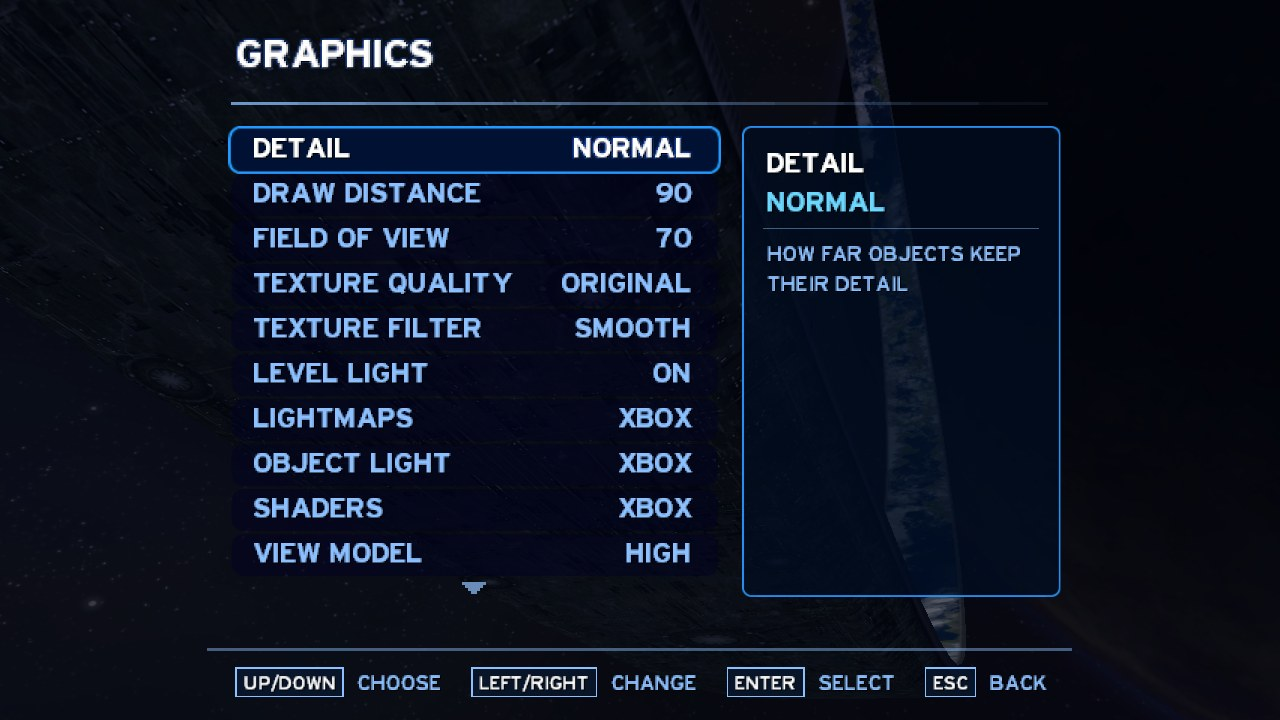
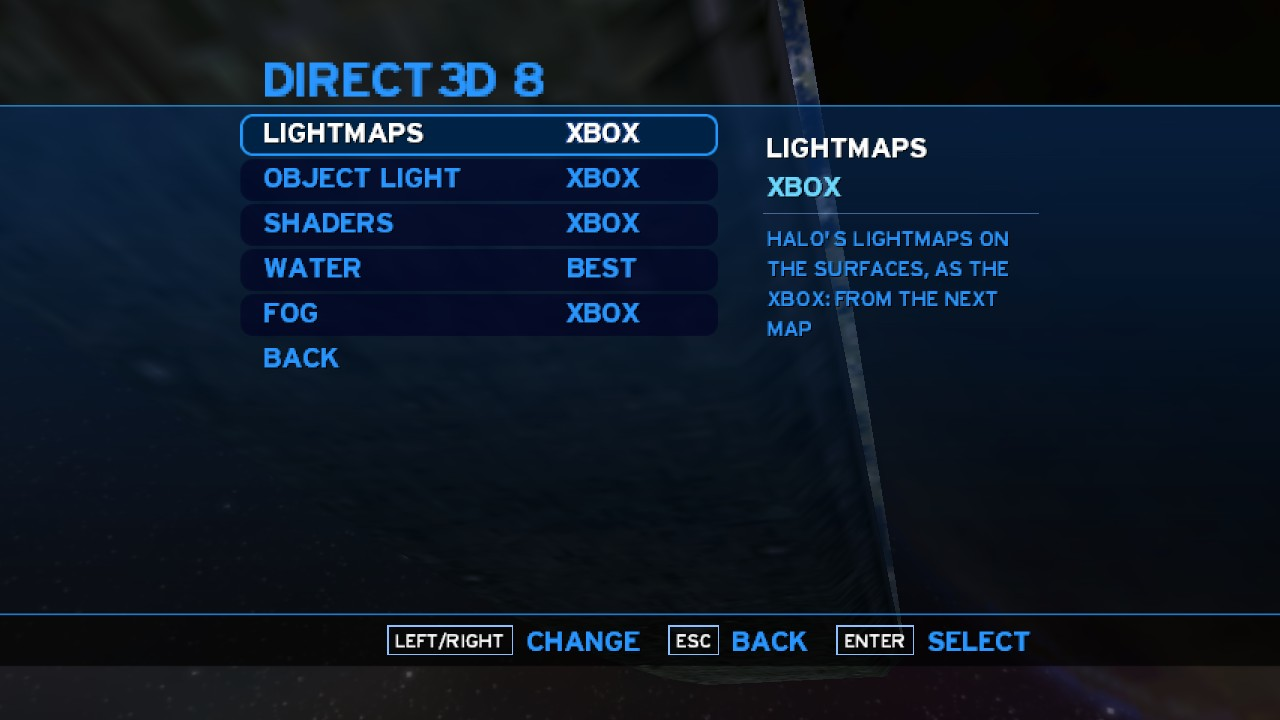
Screenshots: the new menus; 8-bit screen pictures blended
The title (three renderers and 256 colours), the Custom Game page and the
graphics settings (now the DIRECT3D 8 page) retaken with the Xbox-style
menus.

In 256 colours an alpha-blended screen picture was drawn only where it
was over half opaque, so the title's dim items (MULTIPLAYER, SETTINGS)
were not drawn at all; it now blends in three steps, as the 8-bit
models do: nothing under a quarter, half to three quarters, whole above.

diff --git a/docs/index.html b/docs/index.html
@@ -276,7 +276,7 @@ footer p { margin: 6px 0; }
 		<figure><img loading="lazy" src="screenshots/split-screen-direct3d.jpg" alt="Four-player split screen on Blood Gulch"><figcaption>Four-player split screen, Direct3D 8</figcaption></figure>
 		<figure><img loading="lazy" src="screenshots/ce-map-download.jpg" alt="The joining page downloading a Custom Edition map"><figcaption>Joining a Custom Edition server downloads its map</figcaption></figure>
 		<figure><img loading="lazy" src="screenshots/menu-custom-game.jpg" alt="The Custom Game page"><figcaption>Custom games with bots</figcaption></figure>
-		<figure><img loading="lazy" src="screenshots/menu-graphics.jpg" alt="The Graphics settings page"><figcaption>Graphics settings, with Direct3D 8's Xbox look</figcaption></figure>
+		<figure><img loading="lazy" src="screenshots/menu-graphics.jpg" alt="The Direct3D 8 settings page"><figcaption>Graphics settings: Direct3D 8's Xbox look</figcaption></figure>
 		<figure><img loading="lazy" class="pixel" src="screenshots/bloodgulch-256.png" alt="Blood Gulch at 320x200 in 256 colours"><figcaption>Blood Gulch at 320x200 in 256 colours</figcaption></figure>
 		<figure><img loading="lazy" class="pixel" src="screenshots/b30-256.png" alt="The Silent Cartographer at 320x200 in 256 colours"><figcaption>The Silent Cartographer at 320x200 in 256 colours</figcaption></figure>
 		<figure><img loading="lazy" src="screenshots/chillout-opengl.jpg" alt="Chill Out in OpenGL"><figcaption>Chill Out, OpenGL</figcaption></figure>

diff --git a/port/dos/render/r_soft.c b/port/dos/render/r_soft.c
@@ -720,14 +720,16 @@ static struct
 {
 	unsigned long stamp;
 	/* what is under is first darkened to darken / 16 (the light maps, 16
-	as it is), then the colour added (add) or put there; covers 0: the texel
-	leaves the pixel as it is (a cut-out's hole too) */
-	unsigned char color, covers, darken;
+	as it is), then the colour added (add) or put there, or half blended
+	with it (half: an alpha blend's texel between a quarter and three
+	quarters); covers 0: the texel leaves the pixel as it is (a cut-out's
+	hole too) */
+	unsigned char color, covers, darken, half;
 } screen_colors[256];
 static unsigned long screen_stamp, stamp_quad, stamp_rgba;
 
 static void screen_color8(unsigned long texel, long r, long g, long b, long a, const unsigned char *add,
-	unsigned char *color, unsigned char *covers, unsigned char *darken)
+	unsigned char *color, unsigned char *covers, unsigned char *darken, unsigned char *half)
 {
 	unsigned long alpha = ((texel >> 24) * (unsigned long)(a >> 16)) >> 8;
 	unsigned long red = (((texel >> 16) & 0xFF) * (unsigned long)(r >> 16)) >> 8;
@@ -736,6 +738,7 @@ static void screen_color8(unsigned long texel, long r, long g, long b, long a, c
 
 	*covers = 1;
 	*darken = 16;
+	*half = 0;
 	if (screen_blend == _r_screen_premultiplied)
 	{
 		/* (premultiplied: the colour added as it is, over what is under
@@ -755,13 +758,17 @@ static void screen_color8(unsigned long texel, long r, long g, long b, long a, c
 	}
 	else
 	{
+		/* (an alpha blend in three steps, as the 8-bit models' are: none
+		under a quarter, half to three quarters, whole above: the menus'
+		dim items (under half) were not drawn at all) */
 		*color = r_palette_nearest((red << 16) | (green << 8) | blue);
-		*covers = screen_blend == _r_screen_opaque || alpha >= 128;
+		*covers = screen_blend == _r_screen_opaque || alpha >= 64;
+		*half = screen_blend != _r_screen_opaque && alpha < 192;
 	}
 }
 
-/* the screen's quads in 8 bits: covered where alpha is over half, the
-colour looked up (blends by the blend tables) */
+/* the screen's quads in 8 bits: an alpha blend in three steps (none, half,
+whole), the colour looked up (blends by the blend tables) */
 static void span8_screen(struct span *span, int textured)
 {
 	unsigned char *pixels = r_frame.pixels + (size_t)span->y * r_frame.pitch;
@@ -769,6 +776,7 @@ static void span8_screen(struct span *span, int textured)
 	long r = span->r, g = span->g, b = span->b, a = span->fog_r;
 	const unsigned char *add = screen_blend == _r_screen_add || screen_blend == _r_screen_premultiplied ?
 		r_palette_add_table() : NULL;
+	const unsigned char *blend = r_palette_blend_table();
 
 	if (textured && !span->dr && !span->dg && !span->db && !span->dfog_r)
 	{
@@ -799,7 +807,7 @@ static void span8_screen(struct span *span, int textured)
 		{ \
 			screen_colors[index].stamp = stamp; \
 			screen_color8(span->palette[index], r, g, b, a, add, &screen_colors[index].color, \
-				&screen_colors[index].covers, &screen_colors[index].darken); \
+				&screen_colors[index].covers, &screen_colors[index].darken, &screen_colors[index].half); \
 			if (alpha_test && !index) \
 				screen_colors[index].covers = 0; \
 		} \
@@ -809,13 +817,14 @@ static void span8_screen(struct span *span, int textured)
 #define ROW_TEXEL texels[((unsigned long)u >> 16) & width_mask]
 #define ANY_TEXEL texels[((((unsigned long)v >> 16) & height_mask) << width_shift) | (((unsigned long)u >> 16) & width_mask)]
 #define ADDED add[screen_colors[index].color * 256 + r_color_map[screen_colors[index].darken][pixels[x]]]
+#define PUT (screen_colors[index].half ? blend[screen_colors[index].color * 256 + pixels[x]] : screen_colors[index].color)
 		if (!dv)
 		{
 			texels += (((unsigned long)v >> 16) & height_mask) << width_shift;
 			if (add)
 				SCREEN_KEPT(ROW_TEXEL, ADDED)
 			else
-				SCREEN_KEPT(ROW_TEXEL, screen_colors[index].color)
+				SCREEN_KEPT(ROW_TEXEL, PUT)
 		}
 		else if (add)
 		{
@@ -823,12 +832,13 @@ static void span8_screen(struct span *span, int textured)
 		}
 		else
 		{
-			SCREEN_KEPT(ANY_TEXEL, screen_colors[index].color)
+			SCREEN_KEPT(ANY_TEXEL, PUT)
 		}
 #undef SCREEN_KEPT
 #undef ROW_TEXEL
 #undef ANY_TEXEL
 #undef ADDED
+#undef PUT
 		return;
 	}
 	for (int x = span->x0; x < span->x1; x++)
@@ -849,15 +859,17 @@ static void span8_screen(struct span *span, int textured)
 		blue = ((texel & 0xFF) * (unsigned long)(b >> 16)) >> 8;
 		if (add)
 		{
-			unsigned char color, covers, darken;
+			unsigned char color, covers, darken, half;
 
-			screen_color8(texel, r, g, b, a, add, &color, &covers, &darken);
+			screen_color8(texel, r, g, b, a, add, &color, &covers, &darken, &half);
 			if (covers)
 				pixels[x] = add[color * 256 + r_color_map[darken][pixels[x]]];
 		}
-		else if (screen_blend == _r_screen_opaque || alpha >= 128)
+		else if (screen_blend == _r_screen_opaque || alpha >= 64)
 		{
-			pixels[x] = r_palette_nearest((red << 16) | (green << 8) | blue);
+			unsigned char color = r_palette_nearest((red << 16) | (green << 8) | blue);
+
+			pixels[x] = screen_blend != _r_screen_opaque && alpha < 192 ? blend[color * 256 + pixels[x]] : color;
 		}
 	next:
 		u += du;

diff --git a/README.md b/README.md
@@ -84,7 +84,7 @@ Shown here four times larger, pixel for pixel.
 <td><img src="docs/screenshots/menu-custom-game.jpg" alt="The Custom Game page"><br><sub>Custom games with bots, on any map and game type</sub></td>
 </tr>
 <tr>
-<td><img src="docs/screenshots/menu-graphics.jpg" alt="The Graphics settings page"><br><sub>Settings for everything from 8-bit colour to the Xbox look</sub></td>
+<td><img src="docs/screenshots/menu-graphics.jpg" alt="The Direct3D 8 settings page"><br><sub>Settings in sections, down to Direct3D 8's Xbox look</sub></td>
 <td><img src="docs/screenshots/ce-map-download.jpg" alt="Downloading a Custom Edition map while joining a server"><br><sub>Joining a Custom Edition server downloads its map</sub></td>
 </tr>
 <tr>
